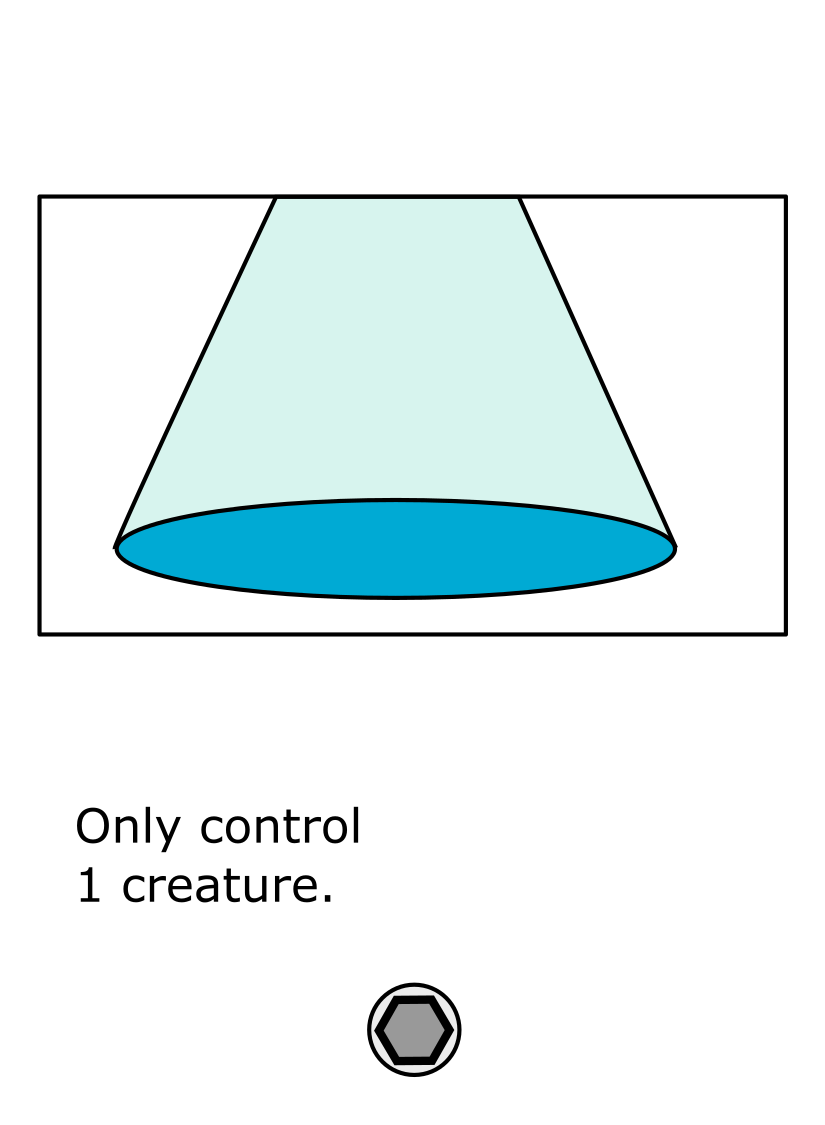
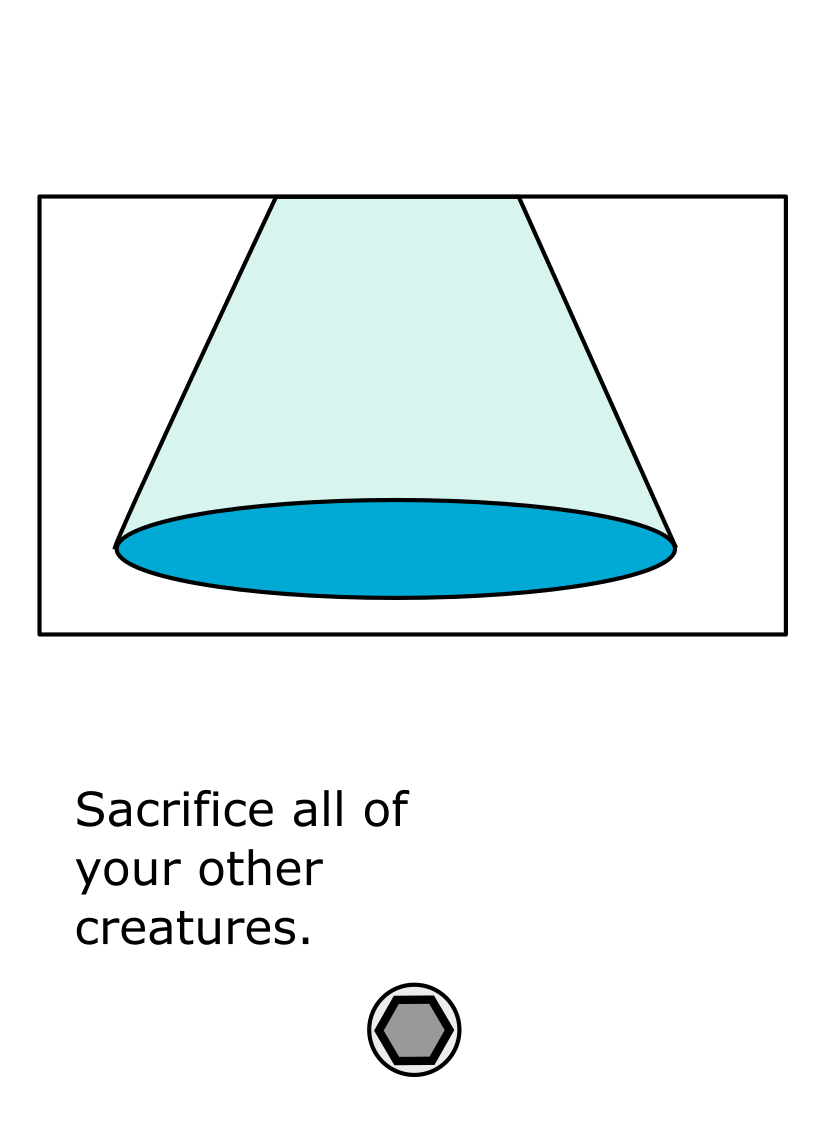
balance update

Changed region(s): [[0.0909, 0.6844, 0.4848, 0.84]]

diff --git a/2021/12/bizarre-world/index.html b/2021/12/bizarre-world/index.html
@@ -424,7 +424,7 @@ After you are done, click the button. Screenshot that card, then once you have e
   <option value='2'> of Soul Harvesting
   <option value='-1'> of Capitalism
   <option value='-1'> of Charity
-  <option value='1'> of Loneliness
+  <option value='2'> of Loneliness
   <option value='0'> of Emptiness
   <option value='-1'> of Milling
 </select>
@@ -617,6 +617,7 @@ If you have not already, <a href="pdf/Bizarre-World-rulebook.pdf">read the ruleb
  
 
 <h2>Change history: </h2>
+12/31/2021: Rejig to Loneliness from a cost that only lets you activate when "you only control one creature" to a cost that makes you "sacrifice all of your other creatures." The point value went from 1 to 2. This was because before, it kinda felt bad to not be able to use it unless you control 1 creature. Not only was the effect really not worth it, but worse, it was not fun because swarming the field is a lot more fun. Anyway, "of Sacrifice" is similar and also 2 points, but this has some neat combos. For example, you can use it while you control no other creatures. Therefore, even though "Of Sacrifice" only needs 1 sacrifice, Loneliness is a lot more flexible. 
 12/31/2021: Added a way to print 4 cards at once.
 12/30/2021: First published this page. It contains "Purple Madness," the first set of cards, which currently has 10 options for each layer for a total of 1000 unique cards. 
 <br>
